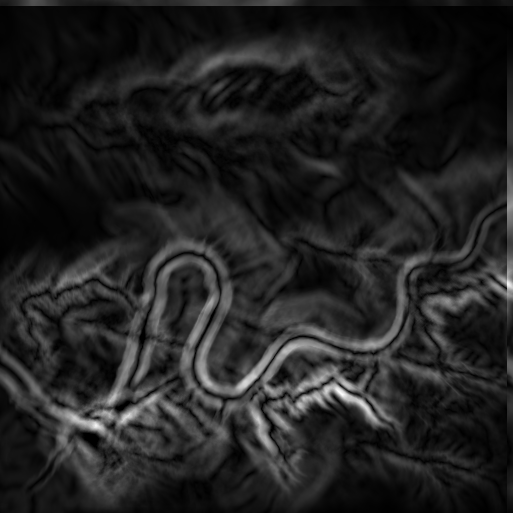
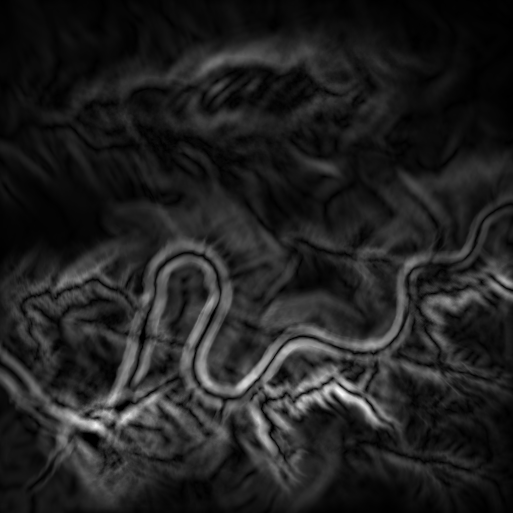
Fixed #11 :)
It was an indexing error caused by carelessly not using my brain. (used % to find remainder when I really wanted to get border values instead)

diff --git a/Assets/Scripts/MapCreator.cs b/Assets/Scripts/MapCreator.cs
@@ -183,8 +183,6 @@ public class MapCreator : MonoBehaviour
     // Slope = sqrt(deltaX^2 + deltaY^2)
     private void CreateSlopeMap()
     {
-        int maxWidth = terrainData.heightmapResolution;
-        int maxHeight = terrainData.heightmapResolution;
         float[,] deltaX = new float[maxWidth, maxHeight];
         float[,] deltaY = new float[maxWidth, maxHeight];
         rawSlopes = new float[maxWidth, maxHeight];
@@ -193,13 +191,13 @@ public class MapCreator : MonoBehaviour
             TextureFormat.ARGB32, false);
         // variables for normalizing
         float min = float.MaxValue;
-        float max = 0;
+        float max = float.MinValue;
         for (int y = 0; y < maxHeight; y++)
         {
             for (int x = 0; x < maxWidth; x++)
             {
-                deltaX[x, y] = (rawHeights[( x + d) % maxWidth, y] - rawHeights[Mathf.Max((x - d),0), y]) / 2;
-                deltaY[x, y] = (rawHeights[x, (y + d) % maxHeight] - rawHeights[x, Mathf.Max((y - d),0)]) / 2;
+                deltaX[x, y] = (rawHeights[Mathf.Min((x + d),maxWidth-1), y] - rawHeights[Mathf.Max((x - d),0), y]) / 2;
+                deltaY[x, y] = (rawHeights[x, Mathf.Min((y + d),maxHeight-1)] - rawHeights[x, Mathf.Max((y - d),0)]) / 2;
                 rawSlopes[x, y] = Mathf.Sqrt(Mathf.Pow(deltaX[x, y], 2) + Mathf.Pow(deltaY[x, y], 2));
                 if (rawSlopes[x, y] > max) max = rawSlopes[x, y];
                 if (rawSlopes[x, y] < min) min = rawSlopes[x, y];
